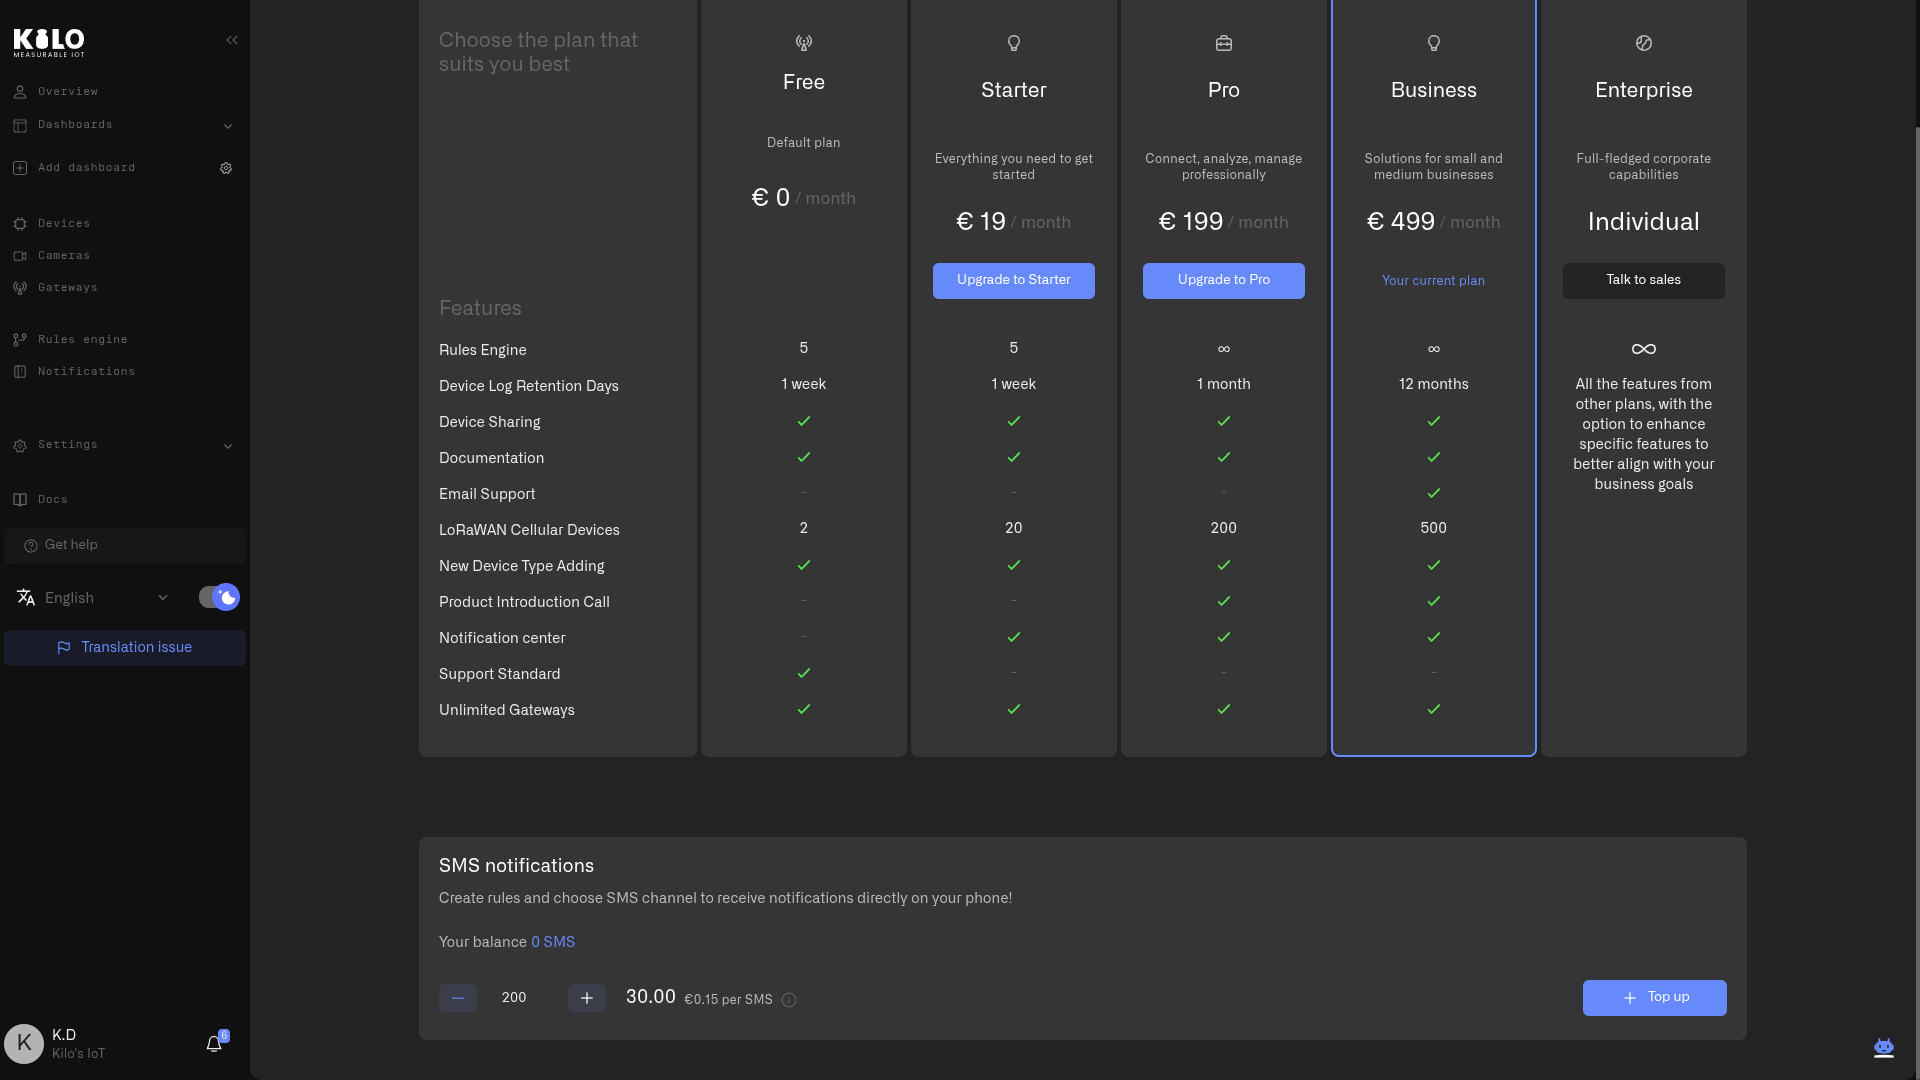
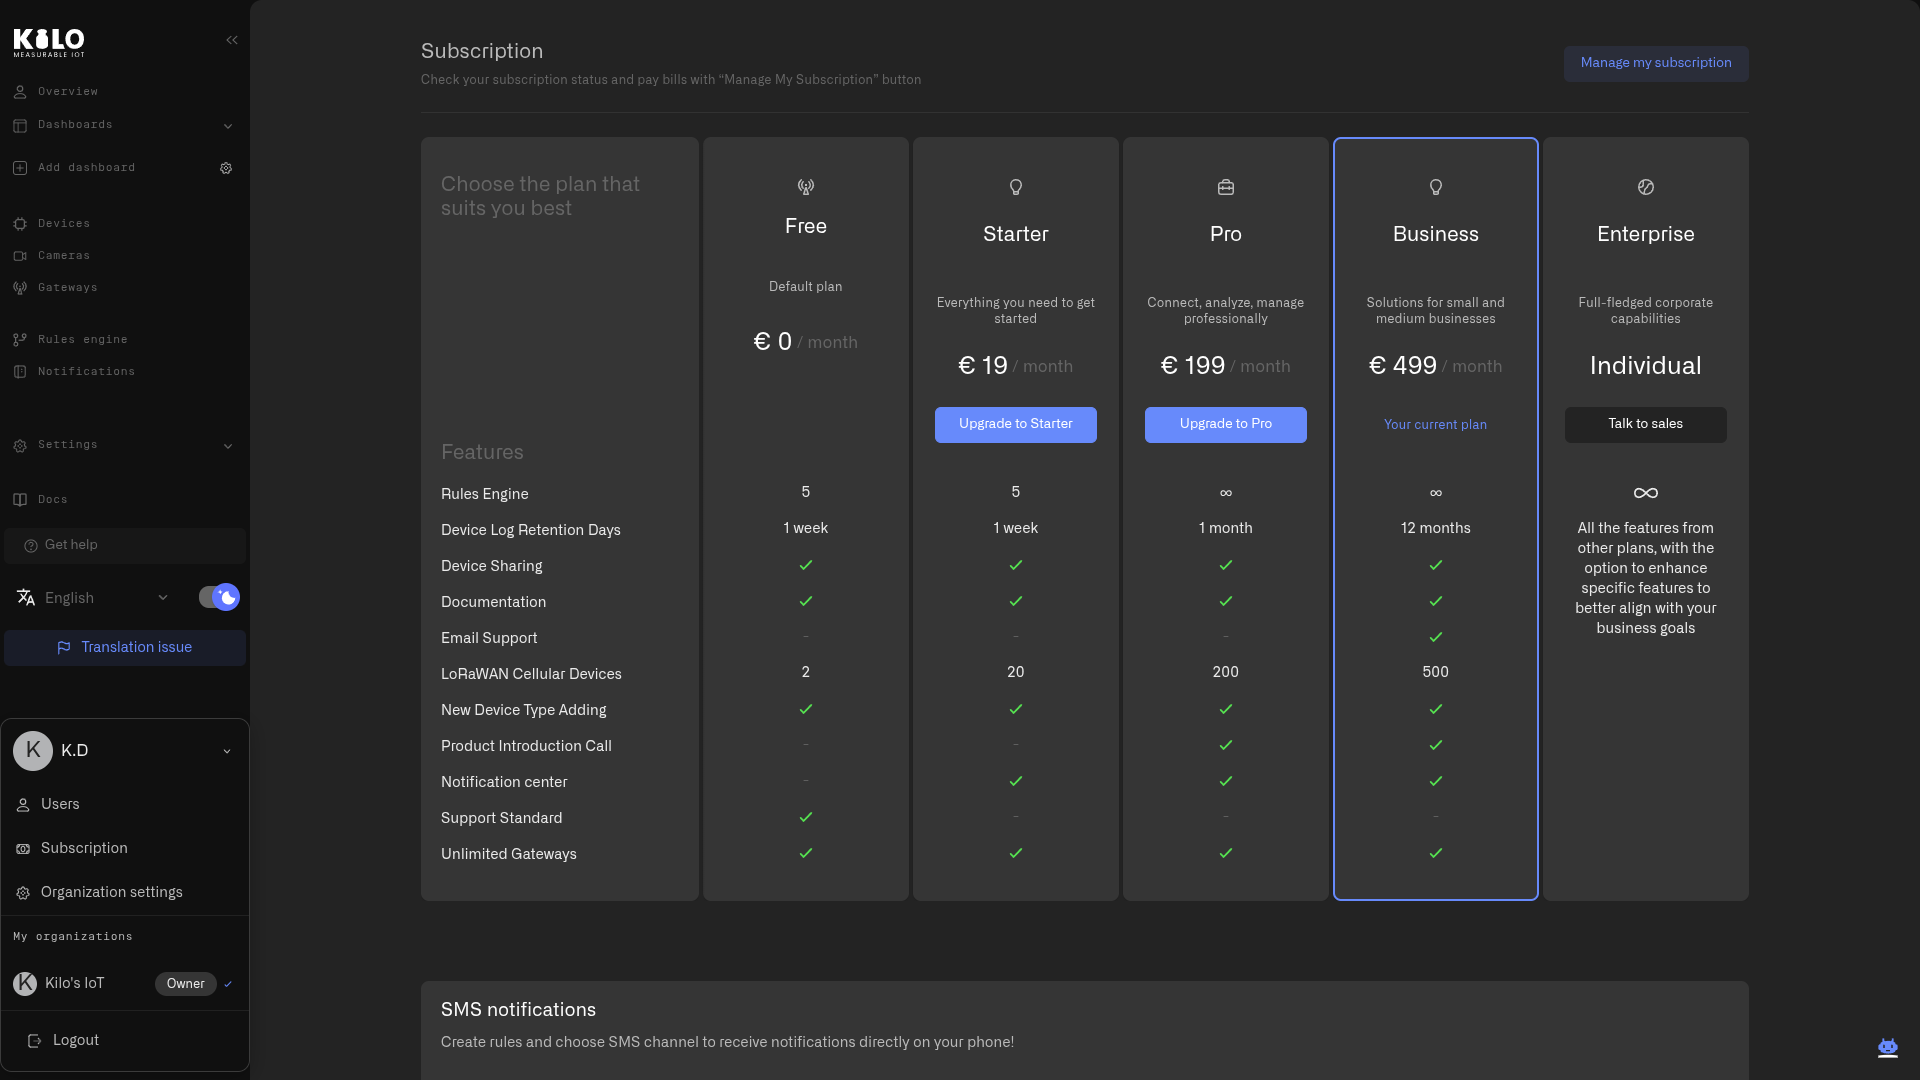
GITBOOK-43: No subject

diff --git a/kilo-iot-server/dashboard/rules.md b/kilo-iot-server/dashboard/rules.md
@@ -1,0 +1,106 @@
+# Rules
+
+The **Rules** tab is where you create and manage notification rules that trigger alerts based on device data and system events. Rules allow you to define **when** a notification should be generated, **what severity type** it should have, and **which devices** it applies to.
+
+***
+
+### Opening Notification Rules
+
+1. In the left navigation menu, click **Notifications**.
+2. In the Notification Center, select the **Rules** tab.
+
+The Rules tab shows all existing notification rules in a table view.
+
+***
+
+### What You Can Do in Rules
+
+In the **Rules** tab, you can:
+
+* Create new notification rules
+* View all existing rules and their configuration at a glance
+* Enable or disable rules without deleting them
+* Search rules by name or keyword
+* Manage rule actions using the options menu on each rule
+
+***
+
+### Rules List (Table View)
+
+All notification rules are displayed in a list. Each row represents one rule.
+
+#### Rule Columns
+
+Each rule includes the following fields:
+
+* **Name** – the rule name (used to identify the rule in your system)
+* **Description** – optional text describing what the rule is used for
+* **Connected devices** – the device(s) this rule is applied to
+* **Type** – severity level of the notification (e.g., _Critical_, _Information_)
+* **Status** – whether the rule is active or disabled
+  * **Active** rules generate notifications
+  * Disabled rules do not trigger notifications
+
+Rules can be sorted using the column headers (where available).
+
+***
+
+### Searching Rules
+
+If you have many rules, use the **Search field** above the rule list.
+
+To search:
+
+1. Click into the search field
+2. Enter a keyword (for example: `leak`, `tank`, `temperature`)
+3. The list filters automatically to show matching rules
+
+***
+
+### Creating a New Rule
+
+To create a new rule:
+
+1. Click **Add Rule** in the top-right corner of the Notification Center
+2. Configure the rule details (name, conditions, devices, severity type)
+3. Save the rule
+
+Once saved, the rule will appear in the Rules list.
+
+***
+
+### Enabling / Disabling Rules
+
+Each rule has a toggle in the **Status** column.
+
+* Toggle **ON** to enable the rule (**Active**)
+* Toggle **OFF** to disable it
+
+This allows you to pause notifications from a rule without deleting the rule configuration.
+
+***
+
+### Editing or Managing a Rule
+
+On the far-right of each rule row, you will see an **options menu (⋮)**.
+
+Use this menu to perform rule management actions such as editing or removing a rule (depending on your available permissions and configuration).
+
+***
+
+### Notification Types Settings
+
+At the top-right of the Rules page, you may also see **Notification types settings**.
+
+This section controls the available notification types (such as _Critical_ or _Information_) and how they are handled in the Notification Center.
+
+***
+
+### Recommended Best Practices
+
+To keep notification rules manageable and actionable:
+
+* Use clear rule names (e.g., _“Water Leak – Basement Sensor”_)
+* Use descriptions to clarify purpose and trigger logic
+* Only use **Critical** for alerts requiring immediate attention
+* Disable rules temporarily if they generate unnecessary alerts during maintenance

diff --git a/kilo-iot-server/dashboard/notification-center/inbox.md b/kilo-iot-server/dashboard/notification-center/inbox.md
@@ -1,0 +1,33 @@
+# Inbox
+
+The **Inbox** is one of the places where you can view notifications generated by your automation rules and monitoring system. It provides a centralized list of alerts so you can review incidents, verify system activity, and track resolved events over time.
+
+Each notification contains:
+
+* **Subject** – what the alert is about
+* **Status** – current state of the alert (e.g., active, resolved)
+* **Type** – severity level (e.g., critical, warning, info)
+* **Message** – full alert text
+* **Date & Time** – timestamp of when the notification was created
+
+#### Example Notification
+
+| Subject    | Status   | Type     | Message                              | Date & Time    |
+| ---------- | -------- | -------- | ------------------------------------ | -------------- |
+| Water leak | Resolved | Critical | Water leak detected in the basement! | 07.08.25 15:03 |
+
+***
+
+### Searching Notifications
+
+If you have many notifications in your Inbox:
+
+1. Click into the **Search field**
+2. Enter a keyword (e.g., “leak”, “temperature”, “boiler”, “door”)
+3. The list updates to show only matching notifications
+
+Search helps you quickly locate:
+
+* A specific incident
+* Notifications for a specific device or system
+* Alerts from a certain period of time

diff --git a/kilo-iot-server/dashboard/notification-center/README.md b/kilo-iot-server/dashboard/notification-center/README.md
@@ -1,0 +1,32 @@
+# Notification Center
+
+The **Notification Center** is where you can **set up, manage, and review alerts** generated by your automation rules. It provides a centralized view of everything that happens across your monitored devices and systems.
+
+***
+
+### Opening Notifications
+
+1. In the left navigation menu, click **Notifications**.
+2. The **Notification Center** opens on the right.
+
+This section is your main hub for:
+
+* Viewing incoming alerts
+* Managing notification rules
+* Configuring notification preferences
+
+***
+
+### Notification Center Layout
+
+<figure><img src="../../../.gitbook/assets/image.png" alt=""><figcaption></figcaption></figure>
+
+At the top-left of the Notification Center, you will see three tabs:
+
+* **Inbox**
+* **Rules**
+* **Settings**
+
+Below the tabs is a **Search field** that allows you to quickly search and filter notifications, which is especially useful when you have a large number of alerts.
+
+***

diff --git a/faq/changelog.md b/faq/changelog.md
@@ -48,7 +48,7 @@ This update enables users to receive critical alerts directly via SMS, increasin
 
 #### New Feature: SMS Credit Purchase (Stripe)
 
-<figure><img src="../.gitbook/assets/image (1).png" alt=""><figcaption></figcaption></figure>
+<figure><img src="../.gitbook/assets/image (1) (1).png" alt=""><figcaption></figcaption></figure>
 
 Kilo now supports purchasing SMS credits directly inside the platform. This allows teams to scale SMS alerting without additional operational overhead and makes usage predictable through a simple balance system.
 
@@ -74,7 +74,7 @@ Kilo now supports purchasing SMS credits directly inside the platform. This allo
 
 ### Subscription & Billing Updates
 
-<figure><img src="../.gitbook/assets/image.png" alt=""><figcaption></figcaption></figure>
+<figure><img src="../.gitbook/assets/image (1).png" alt=""><figcaption></figcaption></figure>
 
 #### Free Subscription Default Plan
 

diff --git a/SUMMARY.md b/SUMMARY.md
@@ -10,6 +10,9 @@
     * [Overview](kilo-iot-server/dashboard/custom-dashboards/overview.md)
     * [Dashboard Hierarchy & Management](kilo-iot-server/dashboard/custom-dashboards/dashboard-hierarchy-and-management.md)
     * [Adding widgets to a dashboard](kilo-iot-server/dashboard/custom-dashboards/adding-widgets-to-a-dashboard.md)
+  * [Notification Center](kilo-iot-server/dashboard/notification-center/README.md)
+    * [Inbox](kilo-iot-server/dashboard/notification-center/inbox.md)
+  * [Rules](kilo-iot-server/dashboard/rules.md)
   * [Attribute Based Access Control (ABAC)](kilo-iot-server/dashboard/attribute-based-access-control-abac/README.md)
     * [Why ABAC Instead of RBAC](kilo-iot-server/dashboard/attribute-based-access-control-abac/why-abac-instead-of-rbac.md)
     * [Permission Levels Explained](kilo-iot-server/dashboard/attribute-based-access-control-abac/permission-levels-explained.md)

diff --git a/kilo-iot-server/dashboard/attribute-based-access-control-abac/creating-an-organization.md b/kilo-iot-server/dashboard/attribute-based-access-control-abac/creating-an-organization.md
@@ -26,7 +26,7 @@ This structure allows dealers to **receive credit for client devices** while mai
 
 
 
-<figure><img src="../../../.gitbook/assets/image (1) (1).png" alt=""><figcaption></figcaption></figure>
+<figure><img src="../../../.gitbook/assets/image (1) (1) (1).png" alt=""><figcaption></figcaption></figure>
 
 * Enter the **Organization Name** (for example, “Kilo Org” or “Clients organization”).
 * Enter the **email address** of the person who will be the **Owner** of this organization.
